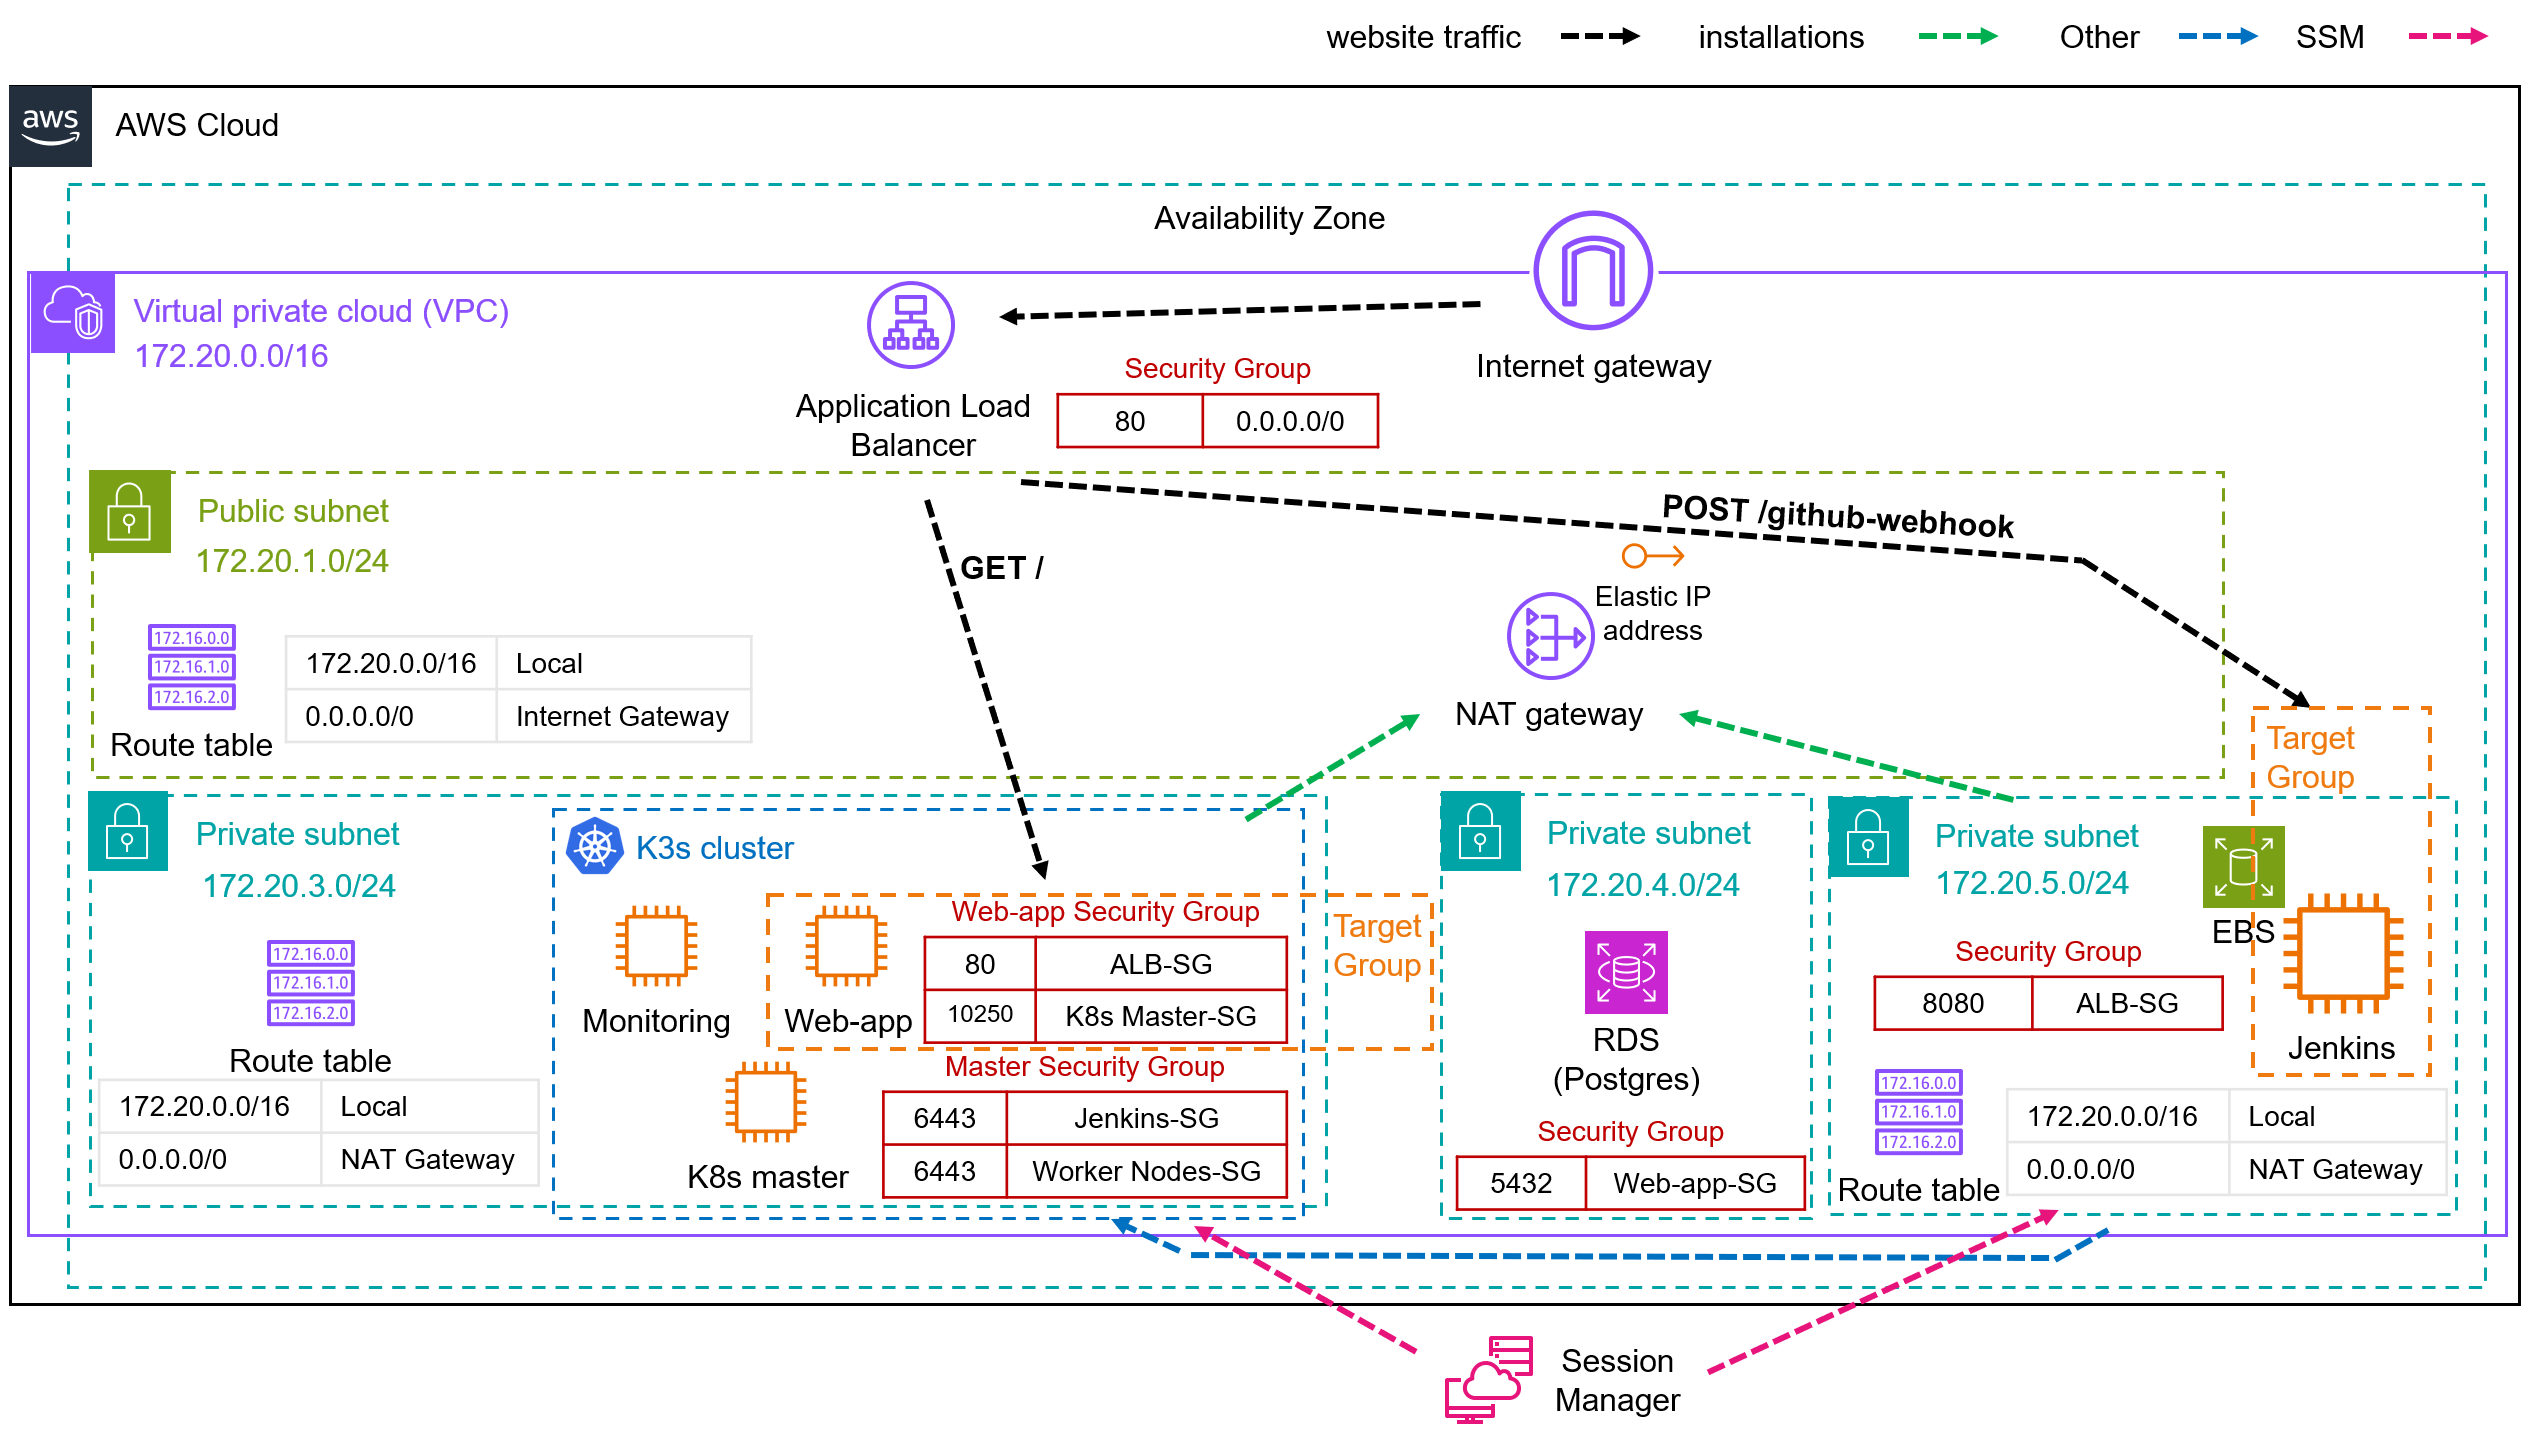
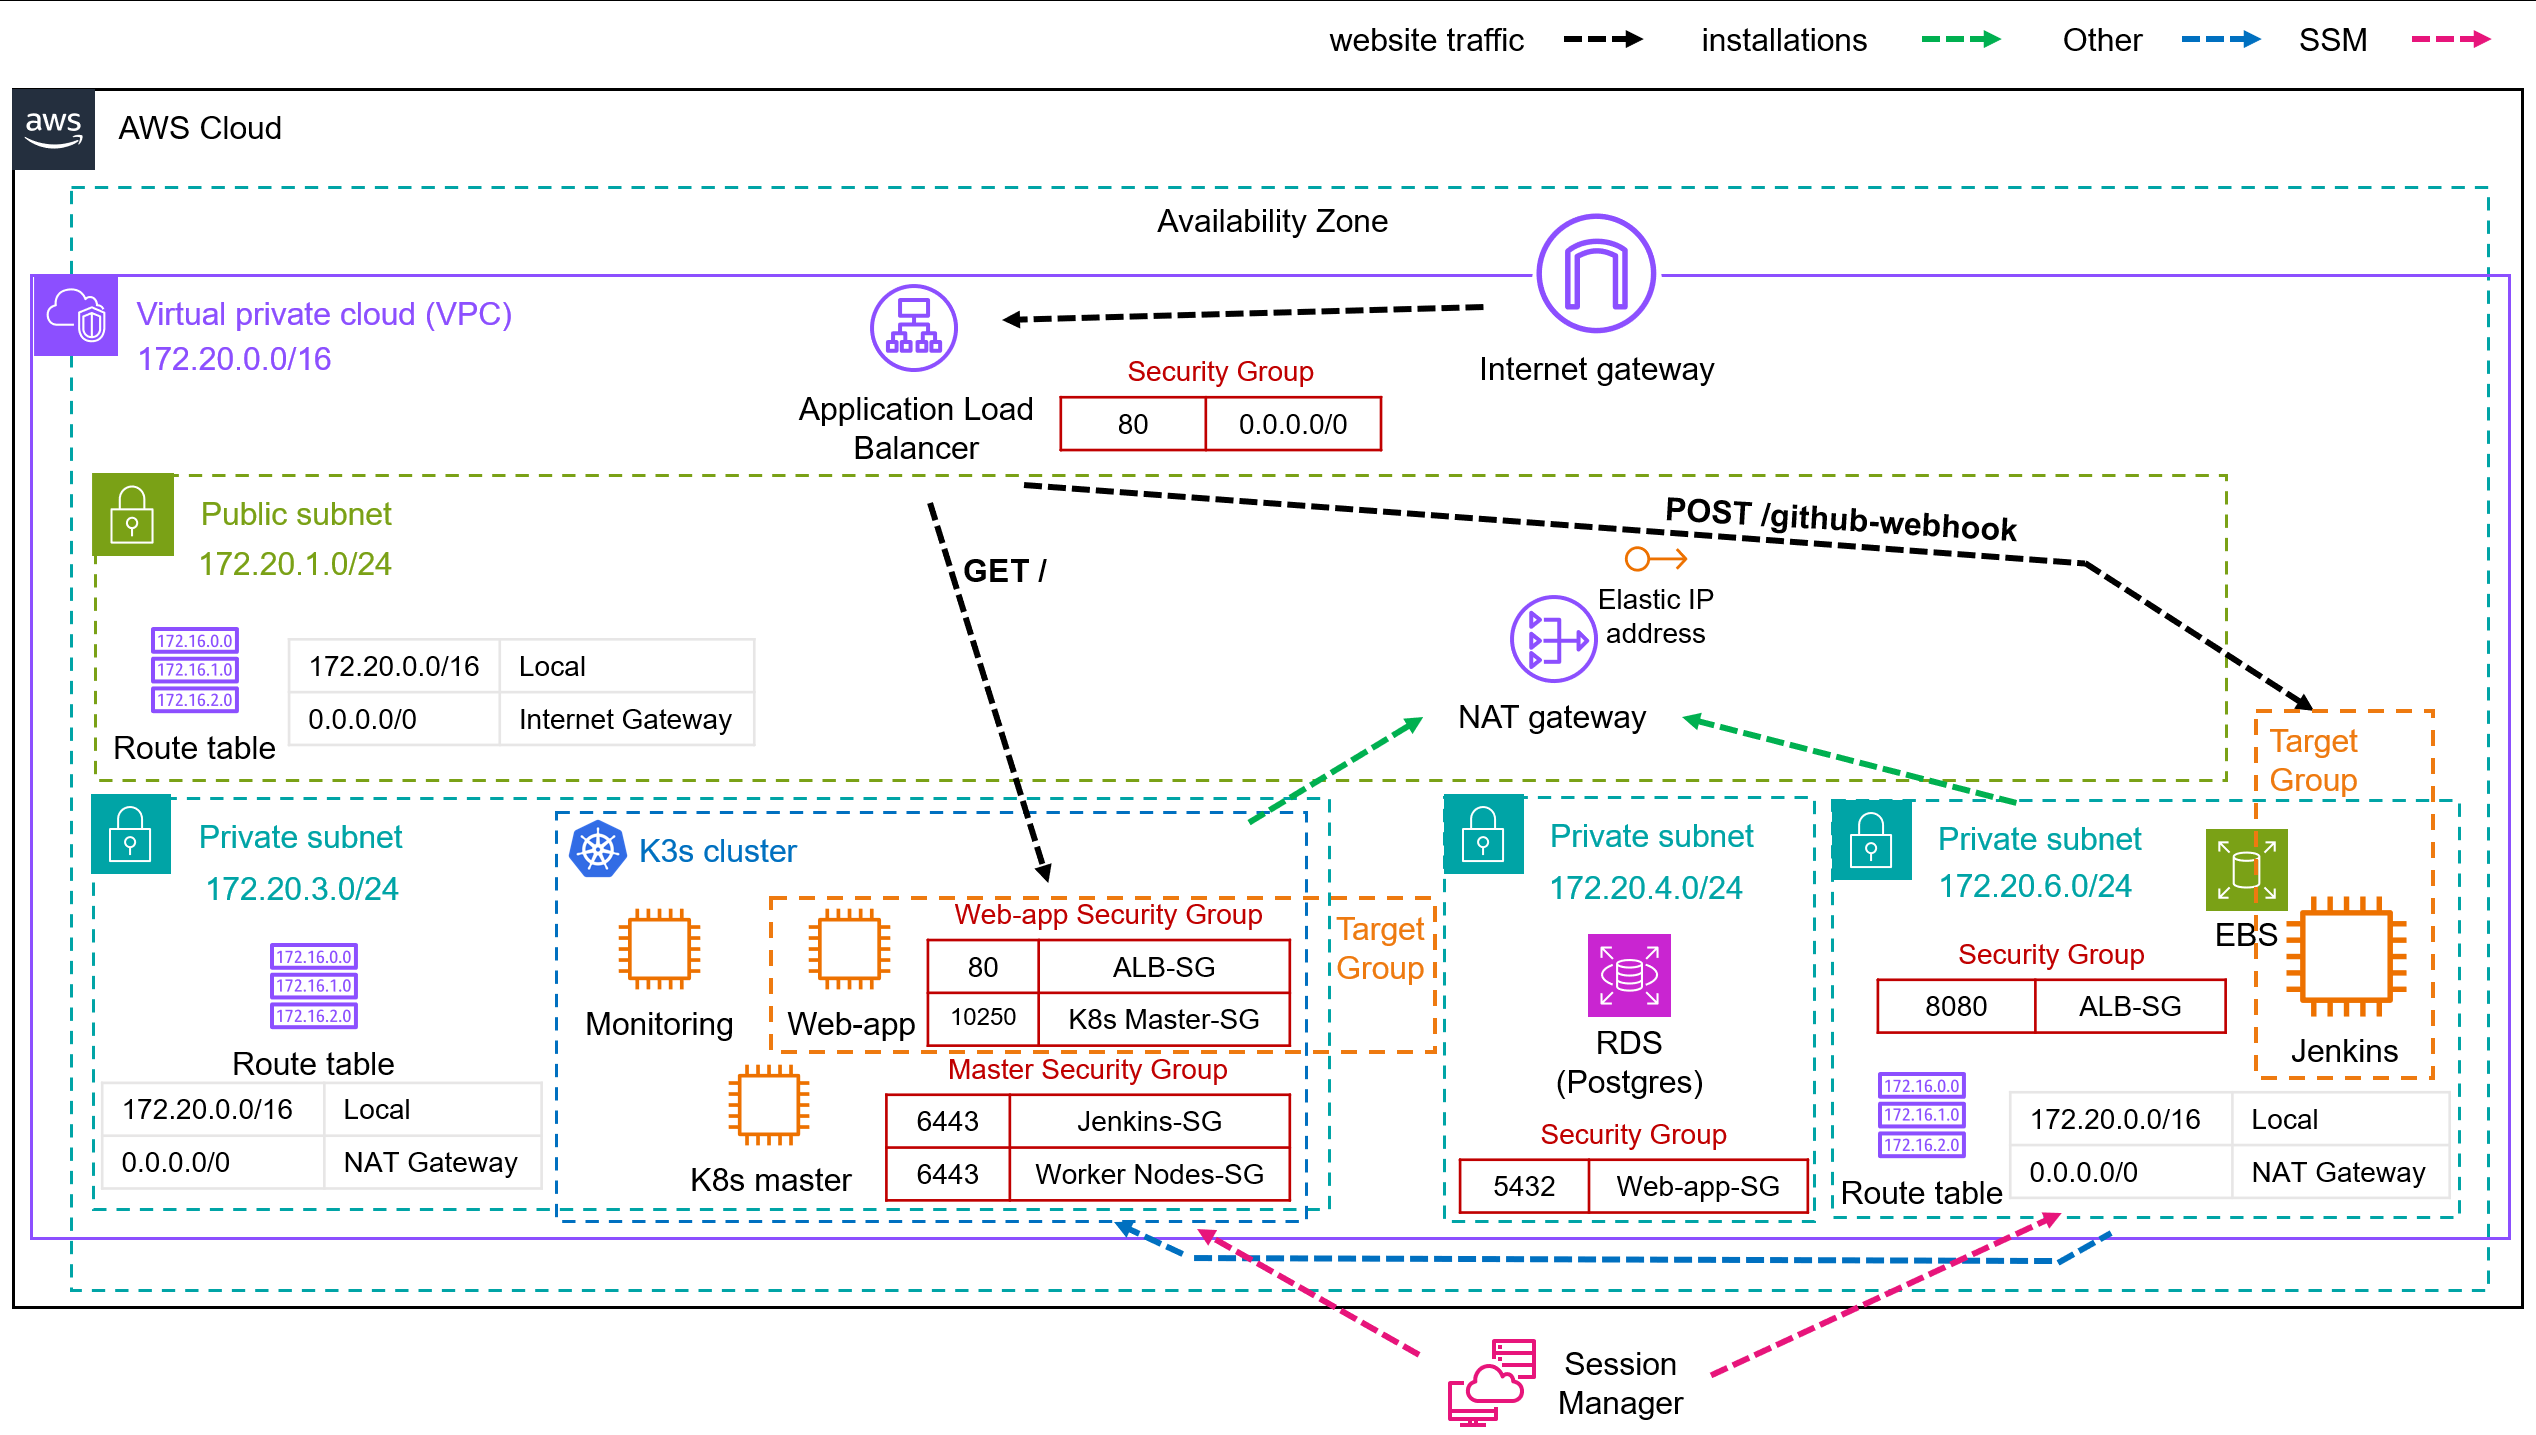
added documentation related to RDS

diff --git a/MDs/learning-notes.md b/MDs/learning-notes.md
@@ -282,3 +282,21 @@ End phase commit: []() # FIX - add commit
         --document-name AWS-StartPortForwardingSession \
         --parameters '{"portNumber":["<instance-port>"],"localPortNumber":["<local-port>"]}'
       ```
+  * RDS
+    * In production I chose running PostgreSQL DB on AWS RDS, instead of running DB on a pod, to simulate production environment. AWS requires an RDS DB Subnet Group to cover at least 2 Availability Zones (AZ) for failover readiness. Because the main infrastructure resides in a single AZ, I added a secondary empty subnet (`rds_priv_2`) in a second AZ purely to fulfill this AWS requirement without additional cost.
+
+    * Unlike local environment, I wanted to hide my DB secrets while uploading to GitHub.  
+      When we run `terraform apply`, Terraform adds the secrets in `secrets.auto.tfvars` to the clusters `vars` automatically. In our case, we add `db_username` and `db_password`, as mentioned in [secrets-auto-tfvars.example](/terraform/secrets-auto-tfvars.example) (we have to rename the file and fill in the credentials before running `terraform apply`).  
+
+      Next, we want to upload those secrets to AWS SSM parameter store along with the database name and RDS address, so the Kubernetes cluster will be able to fetch these parameters. We do that in [rds.tf#aws_ssm_parameter.db_credentials](/terraform/rds/rds.tf).  
+
+      Lastly, we need to fetch these parameters in the Kubernetes cluster. To do that I've used an external secret operator by [external-secrets.io](https://external-secrets.io). This component allows adding secrets to Kubernetes cluster from cloud providers or secret management platforms.  
+
+      So, we install the resources on a namespace named `external-secrets`. And then we add 2 more components to our Kubernetes cluster: [ClusterSecretStore](/helm-chart/visit-counter/templates/db-rds/cluster-secret-store.yaml) creates the connection to AWS and [ExternalSecret](/helm-chart/visit-counter/templates/db-rds/external-secret.yaml) fetches the secrets from SSM parameter store.  
+
+      Once we install the Helm Chart, `ExternalSecret` will create a `Secret` component with the parameters we stored on [rds.tf#aws_ssm_parameter.db_credentials](/terraform/rds/rds.tf): `POSTGRES_USER`, `POSTGRES_PASSWORD`, `POSTGRES_DB` and `DB_HOST`.
+    * In Helm Chart, I kept the option to use a Pod running DB inside, instead of AWS RDS.  
+
+      For that, keep the DB enabled in [values-prod.yaml](/helm-chart/visit-counter/values-prod.yaml) and comment out the RDS instance in Terraform code.  
+
+      Worth mentioning that this scenario is supported when we have a single node running the Web App pods. In case there is more than one node, we need to add port `5432` (Postgres port) to Web App Security Group.

diff --git a/MDs/aws-installation.md b/MDs/aws-installation.md
@@ -18,8 +18,13 @@ aws ssm start-session \
 
 # from now on you can use `kubectl` in your terminal
 
-# Install external-secrets for connecting to AWS RDS
+### Install external-secrets for connecting to AWS RDS
 helm repo add external-secrets https://charts.external-secrets.io
+
+# Update ./terraform/secrets-auto-tfvars.example
+# 1. Fill in username and password for the DB master user
+# 2. rename the file to: ./terraform/secrets.auto.tfvars
+# Then continue with the following commands
 
 helm install external-secrets external-secrets/external-secrets \
   -n external-secrets \
